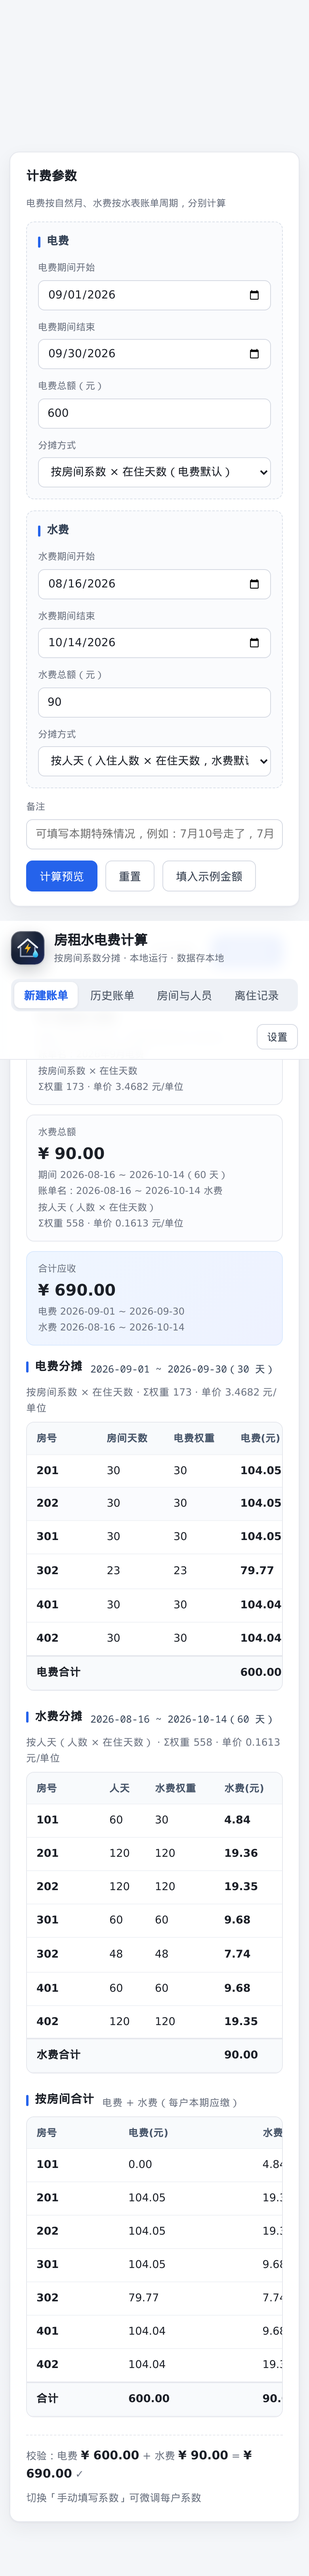
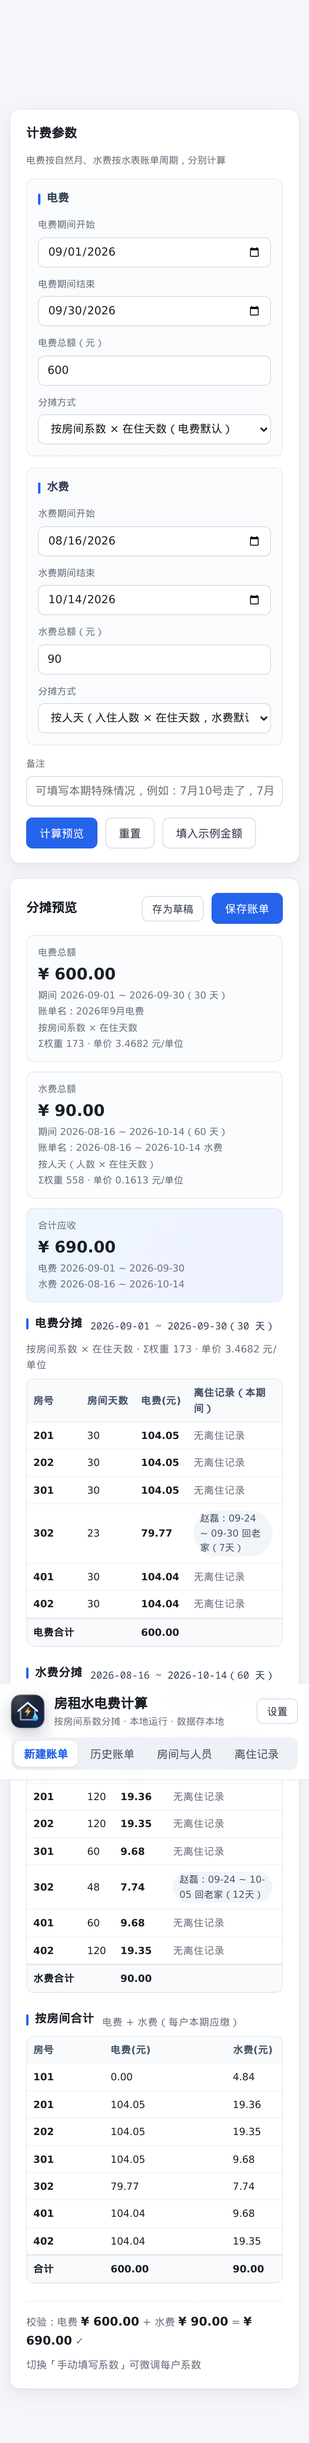
手机端适配：全页面响应式优化
- 表格单元格单行、精简次要列（身份证/创建时间/状态等），避免逐字换行与行高异常
- 分摊表手机端隐藏权重列，4 列直接铺满；按房间合计/公开账单表自适应
- 顶栏品牌+设置同行、标签横向滑动；弹窗与公开登记页单列
- 390/360/320 宽度实测无横向溢出

diff --git a/app/public/style.css b/app/public/style.css
@@ -491,3 +491,89 @@ main { max-width: 1240px; margin: 0 auto; padding: 20px 22px 60px; }
 .pb-total { margin-left: auto; font-weight: 700; font-size: 13.5px; }
 .public-bill .data-table { margin-top: 10px; width: 100%; }
 .public-bill .hint { display: block; margin: 8px 0 0; }
+
+/* ---------- 手机端表格优化 ---------- */
+/* 单元格不逐字换行，超出就横向滑动查看，避免行高被撑爆 */
+.data-table td { white-space: nowrap; }
+.data-table td .chip { white-space: normal; }
+@media (max-width: 900px) {
+  .data-table { font-size: 13px; }
+  .data-table th,
+  .data-table td { padding: 8px 10px; }
+  .table-wrap { -webkit-overflow-scrolling: touch; }
+}
+@media (max-width: 560px) {
+  .data-table { font-size: 12.5px; min-width: 560px; }
+  .data-table th,
+  .data-table td { padding: 7px 8px; }
+  /* 列少的表格直接铺满手机宽度，不需要滑动 */
+  .data-table.summary-table,
+  .data-table.bill-rooms-table,
+  .data-table.abs-modal-table { min-width: 0; }
+}
+
+@media (max-width: 900px) {
+  /* 页面本身不横向滚动，宽表格在自己的容器里滑动 */
+  body { overflow-x: hidden; }
+}
+
+/* 手机端分摊表：隐藏「权重」列，4 列直接铺满，不用左右滑动 */
+@media (max-width: 560px) {
+  .data-table.fee-table { min-width: 0; }
+  .data-table.fee-table th:nth-child(3),
+  .data-table.fee-table td:nth-child(3) { display: none; }
+  .data-table.fee-table th:last-child,
+  .data-table.fee-table td:last-child { white-space: normal; }
+}
+
+/* 手机端精简列：隐藏身份证、创建时间等次要列，减少左右滑动 */
+@media (max-width: 560px) {
+  #tenants-table th:nth-child(4),
+  #tenants-table td:nth-child(4) { display: none; }
+  #bills-table th:nth-child(6),
+  #bills-table td:nth-child(6) { display: none; }
+}
+
+/* 手机端顶栏：品牌 + 设置同一行，标签栏独占一行 */
+@media (max-width: 900px) {
+  .topbar { display: grid; grid-template-columns: 1fr auto; align-items: center; row-gap: 10px; }
+  .brand { min-width: 0; }
+  .topbar-actions { grid-column: 2; justify-self: end; }
+  .tabs { grid-column: 1 / -1; }
+}
+
+/* 手机端进一步精简列，让金额/操作不用滑动就能看到 */
+@media (max-width: 560px) {
+  #bills-table th:nth-child(3),
+  #bills-table td:nth-child(3) { display: none; } /* 计费期间 */
+  #absences-table th:nth-child(6),
+  #absences-table td:nth-child(6) { display: none; } /* 备注 */
+  #rooms-table th:nth-child(6),
+  #rooms-table td:nth-child(6) { display: none; } /* 备注 */
+  #tenants-table th:nth-child(6),
+  #tenants-table td:nth-child(6) { display: none; } /* 退租日期 */
+}
+
+@media (max-width: 900px) {
+  .brand { grid-row: 1; grid-column: 1; }
+  .topbar-actions { grid-row: 1; grid-column: 2; }
+  .tabs { grid-row: 2; grid-column: 1 / -1; }
+}
+
+@media (max-width: 560px) {
+  #bills-table th:nth-child(5),
+  #bills-table td:nth-child(5) { display: none; } /* 状态（详情里有） */
+  #bills-table th:last-child,
+  #bills-table td:last-child { white-space: normal; }
+}
+
+@media (max-width: 560px) {
+  #bills-table { min-width: 0; }
+}
+
+@media (max-width: 560px) {
+  #bills-table td:last-child .btn-link { white-space: nowrap; }
+}
+
+/* 备注类文本允许换行（其余单元格保持单行，避免手机端行高异常） */
+.data-table td.muted { white-space: normal; }

diff --git a/app/public/app.js b/app/public/app.js
@@ -487,7 +487,7 @@ function openAbsenceModal(tenant) {
     }
     $('#absence-list').innerHTML = `
       <div class="table-wrap">
-        <table class="data-table" style="min-width:520px">
+        <table class="data-table abs-modal-table">
           <thead><tr><th>开始</th><th>结束</th><th class="num">天数</th><th>备注</th><th>操作</th></tr></thead>
           <tbody>${list
             .map(
@@ -776,7 +776,7 @@ function renderFeeTable(fee, opts = {}) {
   )} · 单价 ${fee.weight_sum > 0 ? fmtUnitPrice(fee.unit_price) + ' 元/单位' : '—'}</span>
     </div>
     <div class="table-wrap">
-      <table class="data-table">
+      <table class="data-table fee-table">
         <thead><tr>
           <th>房号</th><th class="num">${dayLabel}</th><th class="num">${escapeHtml(
     fee.name

diff --git a/app/public/login.html b/app/public/login.html
@@ -4,7 +4,7 @@
   <meta charset="UTF-8" />
   <meta name="viewport" content="width=device-width, initial-scale=1.0" />
   <title>登录 · 房租水电费计算</title>
-  <link rel="stylesheet" href="style.css?v=20261021h" />
+  <link rel="stylesheet" href="style.css?v=20261021q" />
   <link rel="icon" type="image/svg+xml" href="favicon.svg" />
 </head>
 <body class="auth-body">
@@ -69,6 +69,6 @@
       </div>
     </div>
   </main>
-  <script src="login.js?v=20261021e"></script>
+  <script src="login.js?v=20261021i"></script>
 </body>
 </html>

diff --git a/app/public/absence.html b/app/public/absence.html
@@ -4,7 +4,7 @@
   <meta charset="UTF-8" />
   <meta name="viewport" content="width=device-width, initial-scale=1.0" />
   <title>离住记录登记</title>
-  <link rel="stylesheet" href="style.css?v=20261021h" />
+  <link rel="stylesheet" href="style.css?v=20261021q" />
   <link rel="icon" type="image/svg+xml" href="favicon.svg" />
 </head>
 <body class="auth-body">
@@ -94,6 +94,6 @@
     </div>
     </div>
   </main>
-  <script src="absence.js?v=20261021h"></script>
+  <script src="absence.js?v=20261021i"></script>
 </body>
 </html>

diff --git a/app/public/index.html b/app/public/index.html
@@ -4,7 +4,7 @@
   <meta charset="UTF-8" />
   <meta name="viewport" content="width=device-width, initial-scale=1.0" />
   <title>房租水电费计算</title>
-  <link rel="stylesheet" href="style.css?v=20261021h" />
+  <link rel="stylesheet" href="style.css?v=20261021q" />
   <link rel="icon" type="image/svg+xml" href="favicon.svg" />
 </head>
 <body>
@@ -249,6 +249,6 @@
 
   <div class="toast" id="toast" hidden></div>
 
-  <script src="app.js?v=20261021e"></script>
+  <script src="app.js?v=20261021i"></script>
 </body>
 </html>

diff --git a/app/public/absence.js b/app/public/absence.js
@@ -141,7 +141,7 @@ function renderBills(bills) {
           <span class="pb-period">${escapeHtml(b.period_start)} ~ ${escapeHtml(b.period_end)}</span>
           <span class="pb-total">¥ ${yuan(b.total_cents)}</span>
         </summary>
-        <table class="data-table">
+        <table class="data-table bill-rooms-table">
           <thead><tr><th>房号</th><th class="num">金额(元)</th><th>离住记录（本期间）</th></tr></thead>
           <tbody>${
             b.rooms

diff --git a/README.md b/README.md
@@ -26,6 +26,15 @@
 - **离住记录总览**：新增「离住记录」页，默认显示最近三个月，可按房间/时间筛选
 - 前端是原生 JS 单页应用，无构建步骤
 
+## 手机端适配
+
+所有页面都针对手机浏览器做了适配（390 / 360 / 320 宽度实测无横向溢出）：
+
+- 顶栏「品牌 + 设置」一行，四个标签横向滑动
+- 分摊预览在手机上隐藏「权重」列，直接看到房号/天数/金额/离住记录
+- 人员表隐藏身份证列、账单表隐藏状态与期间列，操作按钮不用左右滑
+- 弹窗、设置、公开登记页全部单列自适应
+
 ## 快速开始
 
 ```bash
